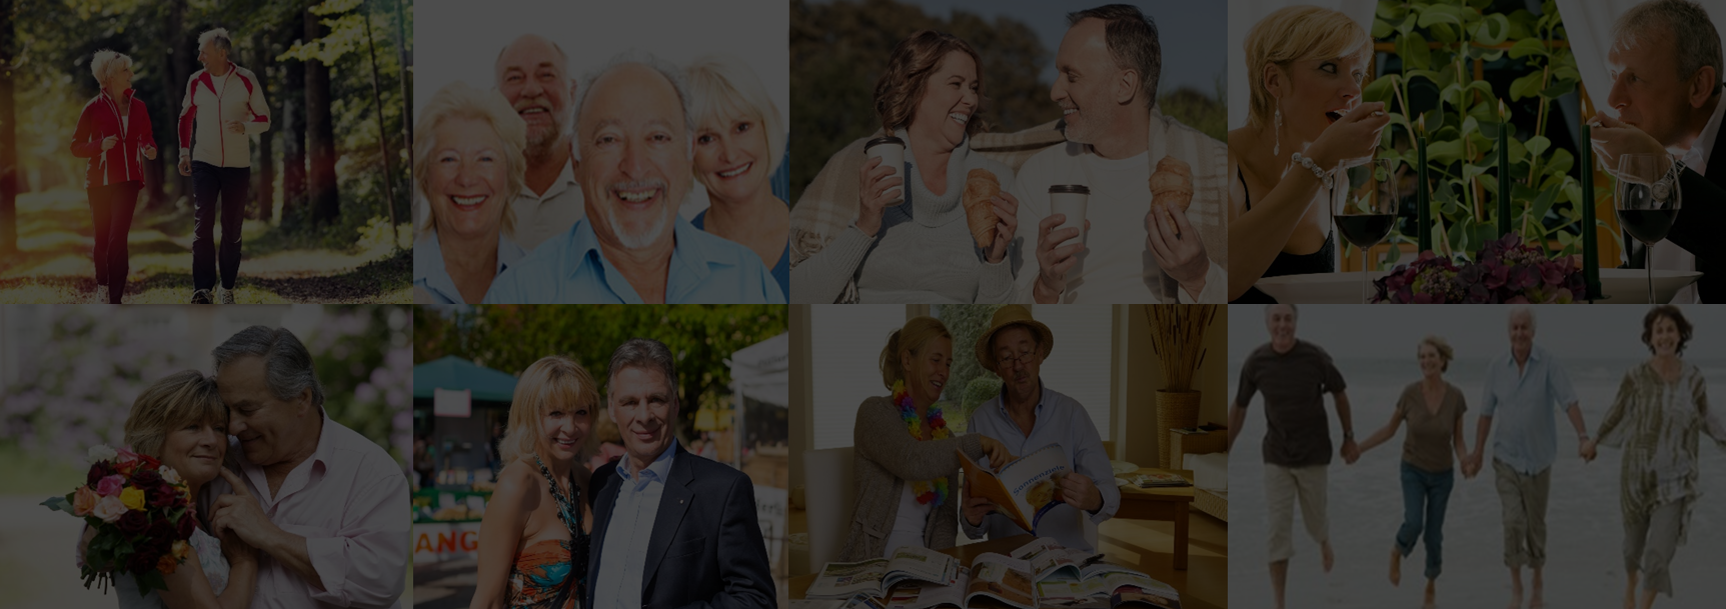
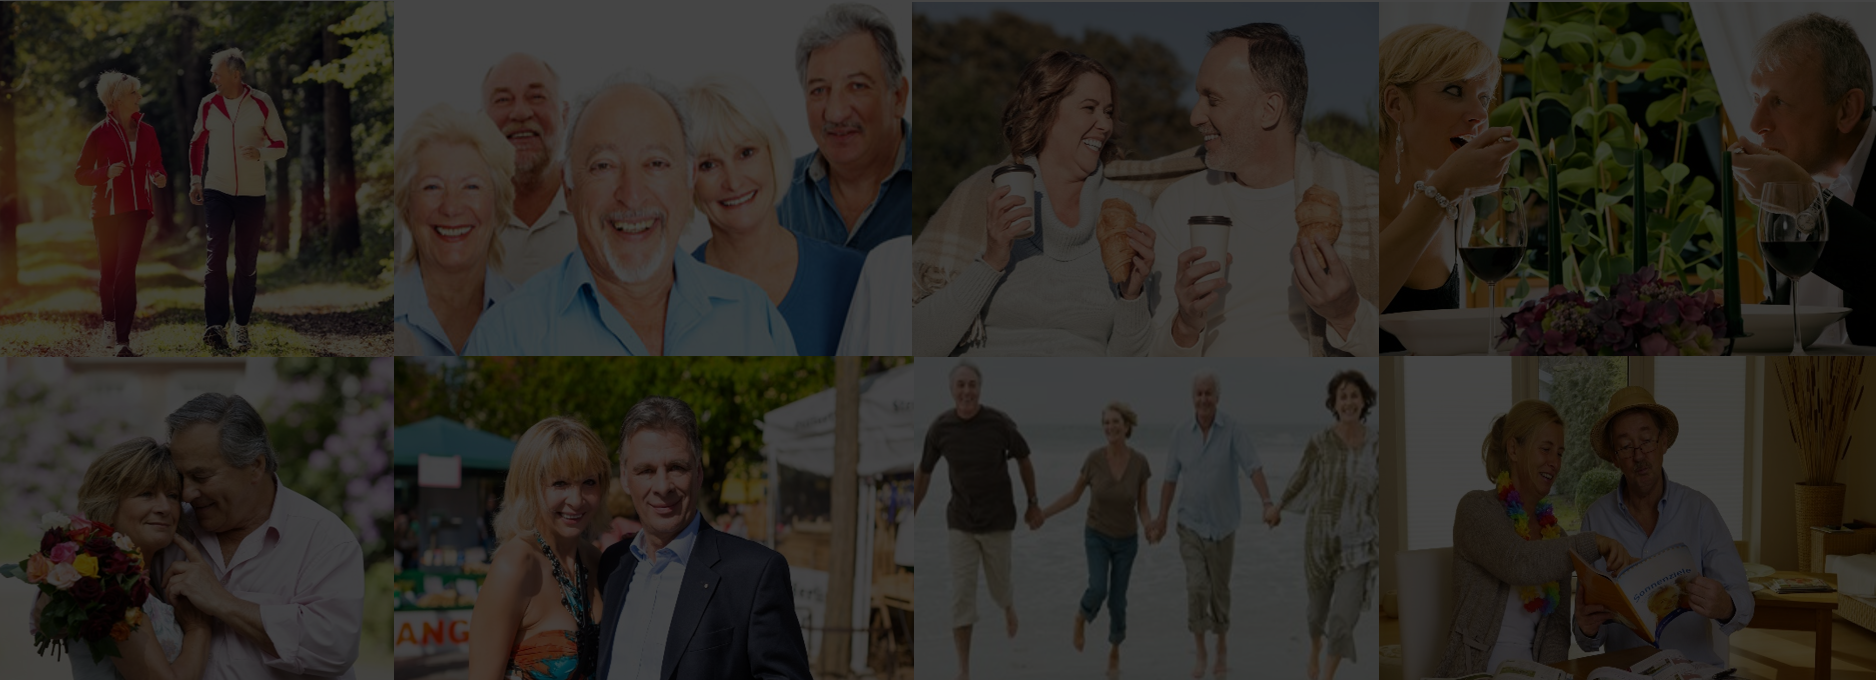
zmiana background image

diff --git a/styles/style.css b/styles/style.css
@@ -67,7 +67,7 @@ nav.navbar.navbar-default.navbar-fixed-top {
 /*banner*/
 
 .jumbotron {
-    background: url(../assets/images/main_banner.png) top 103px left fixed !important;
+    background: url(../assets/images/main_banner.png) top 93px left fixed !important;
     margin-bottom: 18px;
     margin-top: 73px;
 }
